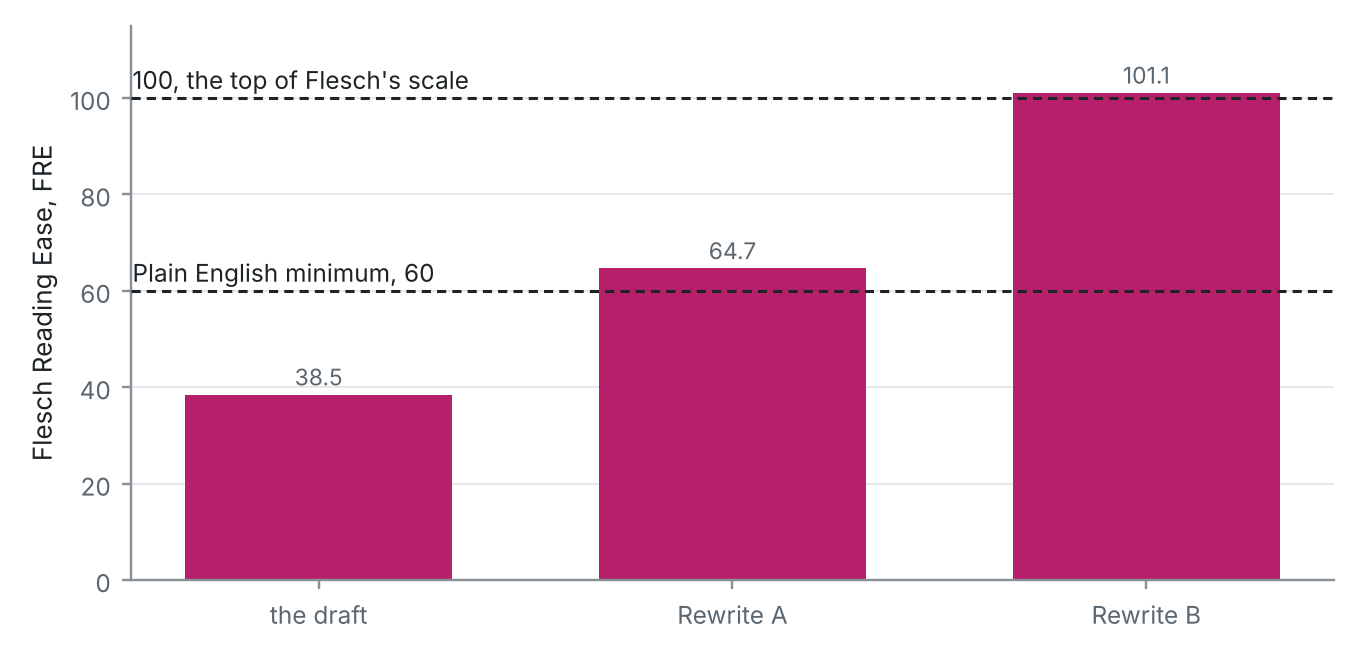
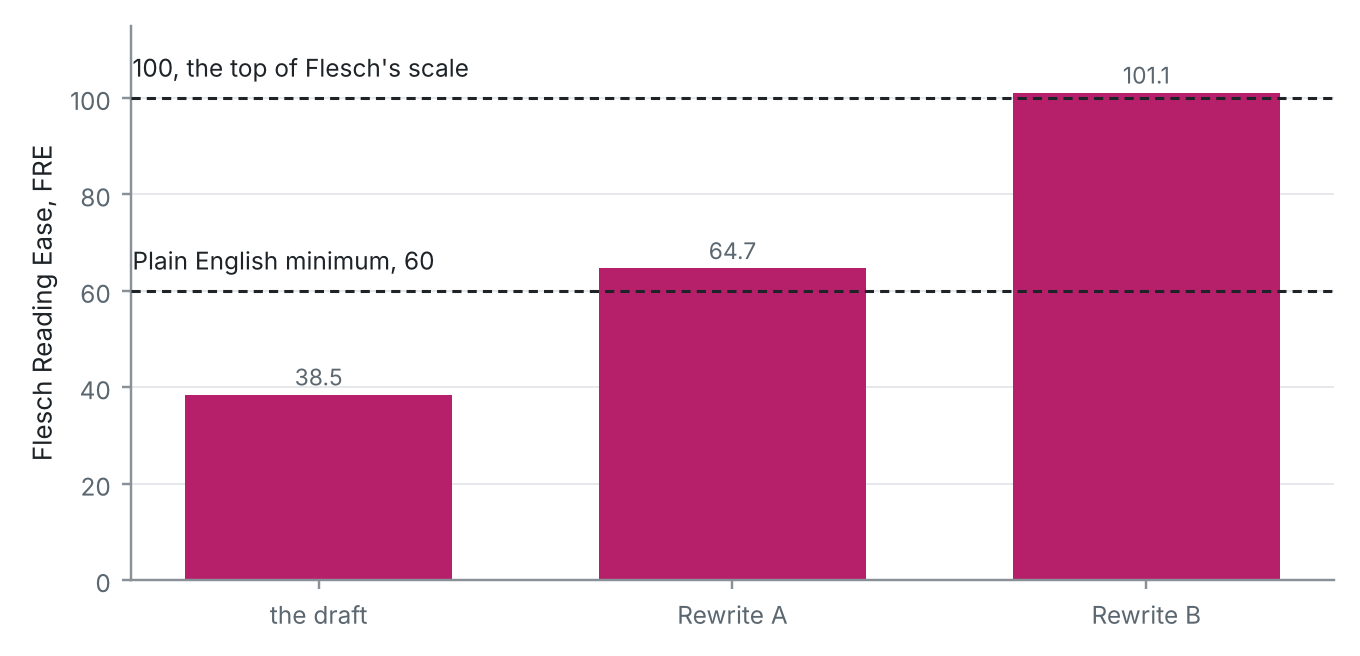
S58-R1: rendered-page fixes
Claude-Session: https://claude.ai/code/session_01WuB2RoXhcFpe5PMHgJXaZd

Changed region(s): [[0.0926, 0.0915, 0.3397, 0.1524], [0.0926, 0.3659, 0.3397, 0.4268]]

diff --git a/books/S58-R1/defects/S58-R1-C23.md b/books/S58-R1/defects/S58-R1-C23.md
@@ -115,7 +115,13 @@ A fresh reader of the built PDF (206 pages). Tag: style unless it misleads.
 
 10. **Rendered p. 133:** both quoted fact-sheet rows print numbered "1."; "(BMI ≥25.0 kg/m2)21 (%)" fuses the source's footnote marker 21 into the text, and m2 is not superscripted. Keep the quotation verbatim where it is a quote, but present it so the reader can read it (e.g. say in the prose that 21 is the fact sheet's footnote number).
 
+Fixed: escaped the row numbers (`88\.`, `89\.`) so they print as 88 and 89, not a list; the prose now says the sheet's "kg/m2" is kg/m^2 and that the "21" after the women's unit is footnote 21.
+
 11. **Rendered p. 136 (table):** the unit breaks as "kg/ m2" (write `kg/m^2` outside quotations) and the footnote prints "1." where the text says "a".
 
+Fixed: the title's unit is already `kg/m^2`; a word joiner after the slash stops the break (tested in WeasyPrint); the footnote opens `\(a)` so it prints "(a)", not "1.".
+
 12. **Rendered appendix p. 198:** Exercise 2's bullets collapse into inline text with " - " separators, and Exercise 1's numbered steps run inline as one paragraph. Write them so they print as separate lines.
+
+Partly: Exercise 1's answer now opens "In order:" on its own line, so its steps print as a numbered list. The collapsed Exercise 2 on p. 198 is `S58-R1-C22`'s (C23's Exercise 2 prints as a bulleted list on p. 199); C22's fixer owns it.
 

diff --git a/books/S58-R1/defects/S58-R1-C21.md b/books/S58-R1/defects/S58-R1-C21.md
@@ -105,7 +105,13 @@ A fresh reader of the built PDF (206 pages). Tag: style unless it misleads.
 
 10. **Rendered p. 123:** a sentence starts with a lower-case letter: "That is a job for a table. section 14 chose…" (a record id at the start of a sentence renders lower-case). Rephrase so the id is not first.
 
+Fixed: reordered to "For the same rows, `S58-R1-C14` chose a figure when the claim was a pattern", so the id no longer opens the sentence.
+
 11. **Rendered p. 124 (Table 1):** the unit breaks as "kg/ m2" and m2 is not superscripted (write `kg/m^2`); the footnote prints "1." although the text and the "women (a)" row call it footnote "a". Make the footnote print as (a).
 
+Fixed: the unit was already superscripted (kg/m^2 renders m<sup>2</sup>); the break was WeasyPrint splitting after "/", now prevented by wrapping the unit in a nowrap span (tested in WeasyPrint at the breaking width). Footnote now starts `\(a)`, so it prints "(a)", not a list "1.".
+
 12. **Rendered appendix pp. 196–197, if this section's:** bullets in an exercise answer collapse into inline text with " - " separators. Write the items so they print as separate lines or sentences.
+
+Fixed: Exercise 2's answer (the anaemia-table critique) now opens "Seven changes:" and a blank line, so the label no longer swallows the first bullet and the seven items print as a list (checked with pandoc).
 

diff --git a/books/S58-R1/defects/S58-R1-C09.md b/books/S58-R1/defects/S58-R1-C09.md
@@ -135,8 +135,11 @@ NFHS-5 needs re-checking at the NFHS-6 release. ICMJE IV.A.3.e as updated Januar
 A fresh reader of the built PDF (206 pages). Tag: style unless it misleads.
 
 14. **Rendered p. 49 (working):** "16 divided by 40 = 0.4" stops before multiplying by 100, and the next sentence says "40 per cent". Add the step.
+Fixed: added "0.4 times 100 = 40" to the working block.
 
 15. **Rendered p. 52:** "The two agree at the top and part below 0.01" had to be read twice. Say what agrees and where they differ.
+Fixed: now "The two rules differ only for 0.0026, a value below 0.01."
 
 16. **Rendered appendix p. 178 (answer to practice problem 9, if it is this section's):** an ASCII grid table ("+------+…| software prints | Cole: …") prints as run-on text. Use a ```table block. If problem 9 on p. 178 belongs to another section, say so.
+Fixed: problem 9 is this section's and already used a ```table block; the renderer prefixed "**9.**" onto the table's first line, breaking it. The answer now opens with "Each value by each rule:" so the table starts on its own line.
 

diff --git a/books/S58-R1/defects/S58-R1-C11.md b/books/S58-R1/defects/S58-R1-C11.md
@@ -170,5 +170,9 @@ A fresh reader of the built PDF (206 pages). Tag: style unless it misleads.
 
 18. **Rendered p. 63 (figure `s58-r1-c11-three-scores.png`):** the dashed reference lines run through their own labels ("100, the top of Flesch's scale", "Plain English minimum, 60"). Move the labels (spec), redraw, look.
 
+Fixed: both label offsets raised from 3 to 7 points in the spec; redrawn and checked, the labels now sit clear above their lines.
+
 19. **Rendered p. 66:** "two for $ (”dollars”)" prints a closing quote at both ends. If this is inside a quotation, check the source file's own characters and keep them; otherwise use the right opening quote.
+
+Fixed: inside Flesch's quotation (source has straight double quotes); the inner pair is now typed as curly “dollars” in the body so pandoc opens and closes it correctly.
 

diff --git a/books/S58-R1/defects/S58-R1-C17.md b/books/S58-R1/defects/S58-R1-C17.md
@@ -164,5 +164,9 @@ A fresh reader of the built PDF (206 pages). Tag: style unless it misleads.
 
 14. **Rendered p. 101:** the quote "Merely indicating that truncation has occurred … may not be" stops mid-sentence and reads as truncated. Quote to the end of the source's sentence, or end at a natural break with an ellipsis that the reader can see.
 
+Fixed: quoted Correll to the end of the sentence (it now ends "may not be sufficient to “de-bias” viewers of truncated charts."); the next quote, cut at "the visual", now ends "magnification of differences." as the source does.
+
 15. **Rendered appendix p. 190:** "40 divided by 40 minus 30" is ambiguous (it means 40 ÷ (40 − 30)). Say it unambiguously.
+
+Fixed: now "40 divided by 10, where 10 is 40 minus 30."
 

diff --git a/books/S58-R1/defects/S58-R1-C03.md b/books/S58-R1/defects/S58-R1-C03.md
@@ -84,5 +84,9 @@ A fresh reader of the built PDF (206 pages). Tag: style unless it misleads.
 
 10. **Rendered pp. 18, 19, 21:** the three one-message attempts and the three thesis messages each print numbered "1.", while the text on p. 19 calls one "attempt 3". Write them so each prints its own label.
 
+Fixed: the attempts open "**Attempt 1.**"–"**Attempt 3.**" and the thesis messages "**(a)**"–"**(c)**" (bold, so not read as lists); pandoc native confirms no list.
+
 11. **Rendered appendix p. 170 (Exercise 2 answer):** the answers for (a) and (b) print as "1." and "2.". Keep the letters.
+
+Fixed: answer lines now open "Message (a) is a topic." and "Message (b) is a list…", so the letters print.
 

diff --git a/books/S58-R1/defects/S58-R1-C08.md b/books/S58-R1/defects/S58-R1-C08.md
@@ -128,3 +128,4 @@ A fresh reader of the built PDF (206 pages). Tag: style unless it misleads.
 
 15. **Rendered appendix p. 175:** within one answer "from 1950 to 2019" and "between 1956 and 2019" read as contradicting each other (titles from 1950, abstracts from 1956?). Make the two ranges say what each counts.
 
+Fixed: exercise 3 answer now dates the abstract rise ("from 0.4 per 100 words in 1956, the first year with enough abstracts, to 4.1 in 2019"), so 1950-2019 reads as the whole count and 1956-2019 as the abstract series (source: "A sufficient number of abstracts only became available from 1956").

diff --git a/books/S58-R1/defects/S58-R1-C20.md b/books/S58-R1/defects/S58-R1-C20.md
@@ -128,4 +128,5 @@ stand-alone caption and the honest error bar.
 A fresh reader of the built PDF (206 pages). Tag: style unless it misleads.
 
 13. **Rendered pp. 119–120:** "Cumming give a rule", "Cumming note", "Cumming advise": a single surname with a plural verb reads as an error. Name the three authors (Cumming, Fidler and Vaux) or use "Cumming and colleagues".
+    Fixed: body and analogy_breaks_when now read "Cumming and colleagues give", "the authors note", "The authors' first two rules", "Cumming and colleagues advise", and "as the paper reports" (was "as Cumming reports").
 

diff --git a/books/S58-R1/defects/S58-R1-C05.md b/books/S58-R1/defects/S58-R1-C05.md
@@ -123,3 +123,5 @@ A fresh reader of the built PDF (206 pages). Tag: style unless it misleads.
 
 14. **Rendered p. 29 (table, column 'number in the text'):** every row prints "1." instead of (1), (2), (1), (4); only the D row reads "D is (3)". A cell that starts with "(1)" is turned into a list. Rewrite the cells so the reference numbers print as written, e.g. "cited as (1)".
 
+
+Fixed: the cells in the "number in the text" column now read "A is (1)", "B is (2)", "A is (1)", "C is (4)", matching the D row, so no cell begins with "(n)" and none is read as a list.

diff --git a/books/S58-R1/defects/S58-R1-C01.md b/books/S58-R1/defects/S58-R1-C01.md
@@ -149,4 +149,5 @@ or `books/S02-R1/defects/`.
 A fresh reader of the built PDF (206 pages). Tag: style unless it misleads.
 
 16. **Rendered p. 13 (Exercise 2):** the quoted sentences print as "1." then "(b) (c) (d)": the first marker turned into a numbered list. Write the markers so the renderer keeps (a)–(d) (e.g. inline, or a table).
+Fixed: escaped the opening marker as `\(a)` in Exercise 2's quote so pandoc no longer starts a list; checked in scratch that the quote renders as one paragraph with (a)–(d) inline, no words added.
 

diff --git a/books/S58-R1/defects/S58-R1-C06.md b/books/S58-R1/defects/S58-R1-C06.md
@@ -58,4 +58,5 @@ P01 — rung-1 groundwork for O2 (the sentence as the unit of clarity), taught.
 A fresh reader of the built PDF (206 pages). Tag: style unless it misleads.
 
 7. **Rendered appendix p. 173 (Exercise 2 answer):** the answer starts "1. Verb…" inline and the next two items print "1." and "2." where they should be 2 and 3. Write the items so their numbers print as intended.
+Fixed: added the lead line "Sentence by sentence:" before item 1, so the three items form one list and print 1, 2, 3 (checked with pandoc).
 

diff --git a/books/S58-R1/defects/S58-R1-C22.md b/books/S58-R1/defects/S58-R1-C22.md
@@ -144,3 +144,4 @@ A fresh reader of the built PDF (206 pages). Tag: style unless it misleads.
 
 15. **Rendered appendix pp. 197–198 (Exercise 2 answer):** bullets collapse into inline text with " - " separators. Write the items so they print as separate lines or sentences.
 
+Fixed: the answer opened with a bullet glued to the "Exercise 2." label; added the lead sentence "Every line needs changing." and a blank line, so pandoc prints the six items as a list (checked on a scratch copy).
